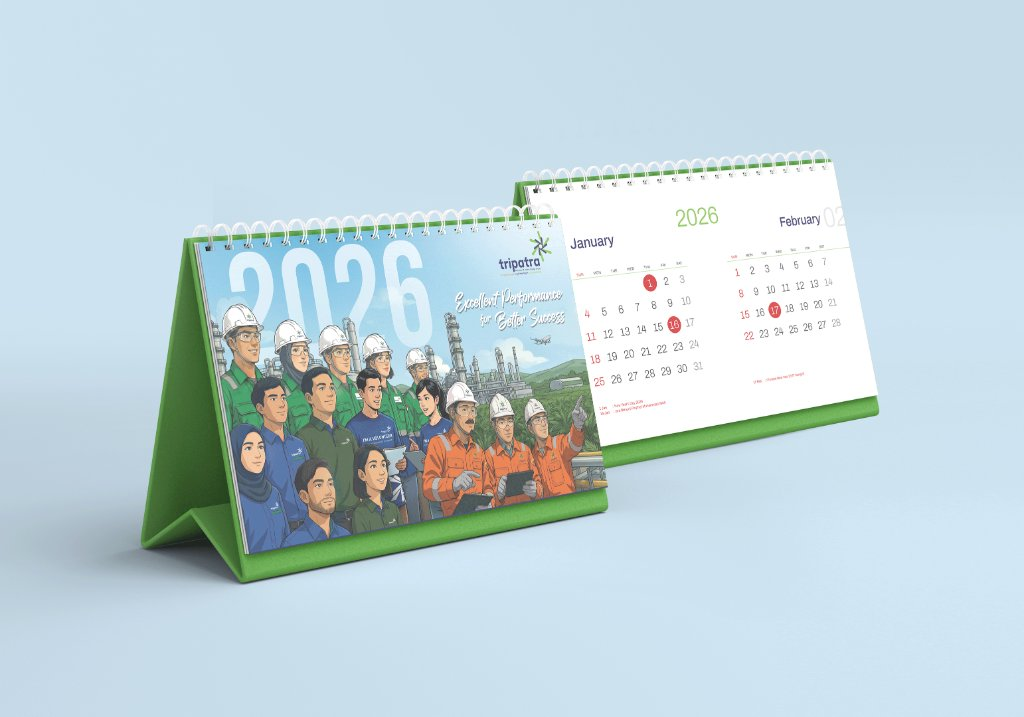
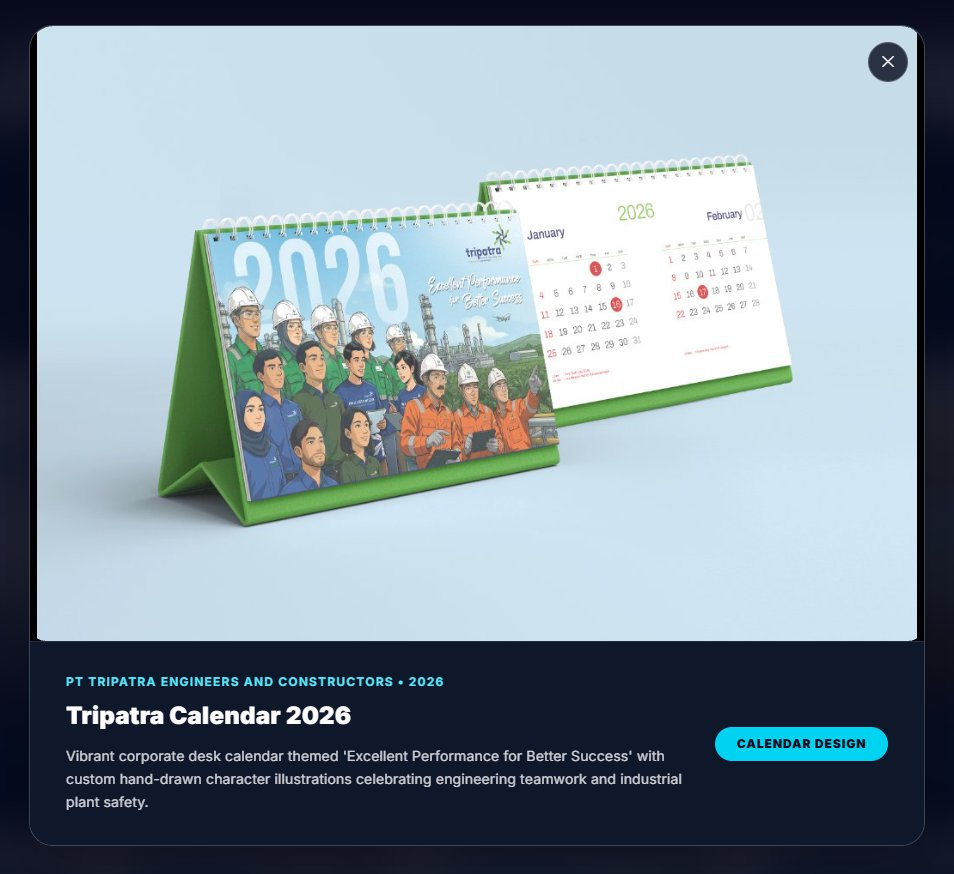
Add multi-slide support with thumbnail strip (up to 10 slots) for project details and add Tripatra Calendar 2026 slides 2-5

diff --git a/app/components/WorkSection.tsx b/app/components/WorkSection.tsx
@@ -11,6 +11,7 @@ type Project = {
   client: string;
   year: string;
   image: string;
+  images?: string[];
   description: string;
 };
 
@@ -58,6 +59,13 @@ const projects: Project[] = [
     client: "PT Tripatra Engineers and Constructors",
     year: "2026",
     image: "/work-tripatra-calendar-2026.jpg",
+    images: [
+      "/work-tripatra-calendar-2026.jpg",
+      "/work-tripatra-calendar-2026-slide-2.jpg",
+      "/work-tripatra-calendar-2026-slide-3.jpg",
+      "/work-tripatra-calendar-2026-slide-4.jpg",
+      "/work-tripatra-calendar-2026-slide-5.jpg",
+    ],
     description: "Vibrant corporate desk calendar themed 'Excellent Performance for Better Success' with custom hand-drawn character illustrations celebrating engineering teamwork and industrial plant safety.",
   },
   {
@@ -647,6 +655,7 @@ export default function WorkSection() {
   const [activeTab, setActiveTab] = useState<string>("All");
   const [selectedYear, setSelectedYear] = useState<string>("All");
   const [selectedProject, setSelectedProject] = useState<Project | null>(null);
+  const [activeImageIndex, setActiveImageIndex] = useState<number>(0);
 
   const workCategories = [
     { id: "All", title: t("work.cat_all"), number: "01" },
@@ -1113,93 +1122,180 @@ export default function WorkSection() {
       {/* ======================================================== */}
       {/* LIGHTBOX MODAL (Click project to view full photo)        */}
       {/* ======================================================== */}
-      {selectedProject && (
-        <div
-          className="fixed inset-0 z-50 flex items-center justify-center p-4 sm:p-8 bg-slate-950/90 backdrop-blur-xl animate-fade-in"
-          onClick={() => setSelectedProject(null)}
-        >
+      {selectedProject && (() => {
+        // Daftar gambar untuk slide (jika ada images[], gunakan itu; fallback ke [image])
+        const projectImages = selectedProject.images && selectedProject.images.length > 0
+          ? selectedProject.images
+          : [selectedProject.image];
+        const currentImg = projectImages[activeImageIndex] || projectImages[0] || selectedProject.image;
+        const totalSlides = projectImages.length;
+
+        const handlePrev = (e: React.MouseEvent) => {
+          e.stopPropagation();
+          setActiveImageIndex((prev) => (prev > 0 ? prev - 1 : totalSlides - 1));
+        };
+
+        const handleNext = (e: React.MouseEvent) => {
+          e.stopPropagation();
+          setActiveImageIndex((prev) => (prev < totalSlides - 1 ? prev + 1 : 0));
+        };
+
+        return (
           <div
-            className="relative max-w-4xl w-full rounded-3xl overflow-hidden bg-slate-900 border border-white/20 shadow-2xl flex flex-col"
-            onClick={(e) => e.stopPropagation()}
+            className="fixed inset-0 z-50 flex items-center justify-center p-3 sm:p-6 bg-slate-950/90 backdrop-blur-xl animate-fade-in"
+            onClick={() => {
+              setSelectedProject(null);
+              setActiveImageIndex(0);
+            }}
           >
-            {/* Close button */}
-            <button
-              onClick={() => setSelectedProject(null)}
-              className="absolute top-4 right-4 z-20 w-10 h-10 rounded-full bg-slate-950/80 hover:bg-white text-white hover:text-slate-950 flex items-center justify-center transition-colors cursor-pointer border border-white/20 select-none"
-              aria-label="Close"
-            >
-              ✕
-            </button>
-
-            {/* High-res Image Preview */}
-            <div className="relative w-full max-h-[65vh] overflow-hidden bg-black flex items-center justify-center p-2">
-              <img
-                src={selectedProject.image}
-                alt={selectedProject.title}
-                className="w-full h-auto max-h-[65vh] object-contain rounded-2xl"
-              />
-            </div>
-
-            {/* Modal Detail Footer */}
             <div
-              className="bg-slate-900 flex flex-col sm:flex-row sm:items-center justify-between gap-6 border-t border-white/10"
-              style={{
-                padding: "2rem 2.25rem",
-              }}
+              className="relative max-w-5xl w-full rounded-3xl overflow-hidden bg-slate-900 border border-white/20 shadow-2xl flex flex-col"
+              onClick={(e) => e.stopPropagation()}
             >
-              <div className="flex-1 pr-4">
-                <span
-                  className="text-xs font-bold uppercase tracking-wider text-cyan-300 block"
-                  style={{
-                    letterSpacing: "0.1em",
-                    marginBottom: "0.6rem",
-                  }}
-                >
-                  {selectedProject.client} • {selectedProject.year}
-                </span>
-                <h4
-                  className="text-xl sm:text-2xl font-black text-white"
-                  style={{
-                    letterSpacing: "0.01em",
-                    lineHeight: "1.35",
-                    marginBottom: "0.75rem",
-                  }}
-                >
-                  {selectedProject.title}
-                </h4>
-                <p
-                  className="text-sm text-white/80 max-w-2xl"
-                  style={{
-                    lineHeight: "1.65",
-                    letterSpacing: "0.01em",
-                  }}
-                >
-                  {selectedProject.description}
-                </p>
+              {/* Close button */}
+              <button
+                onClick={() => {
+                  setSelectedProject(null);
+                  setActiveImageIndex(0);
+                }}
+                className="absolute top-4 right-4 z-30 w-10 h-10 rounded-full bg-slate-950/80 hover:bg-white text-white hover:text-slate-950 flex items-center justify-center transition-colors cursor-pointer border border-white/20 select-none"
+                aria-label="Close"
+              >
+                ✕
+              </button>
+
+              {/* High-res Image Preview & Carousel Controls */}
+              <div className="relative w-full h-[52vh] sm:h-[60vh] max-h-[65vh] overflow-hidden bg-black flex items-center justify-center p-2 group">
+                <img
+                  key={currentImg}
+                  src={currentImg}
+                  alt={`${selectedProject.title} - Slide ${activeImageIndex + 1}`}
+                  className="w-full h-full object-contain rounded-2xl select-none transition-all duration-300"
+                />
+
+                {/* Navigasi Panah Kiri & Kanan (jika lebih dari 1 gambar) */}
+                {totalSlides > 1 && (
+                  <>
+                    <button
+                      onClick={handlePrev}
+                      className="absolute left-4 top-1/2 -translate-y-1/2 z-20 w-11 h-11 rounded-full bg-black/60 hover:bg-[#0080c8] text-white flex items-center justify-center border border-white/30 backdrop-blur transition-all duration-200 cursor-pointer shadow-lg hover:scale-110"
+                      aria-label="Previous Slide"
+                    >
+                      <svg className="w-5 h-5" fill="none" stroke="currentColor" viewBox="0 0 24 24">
+                        <path strokeLinecap="round" strokeLinejoin="round" strokeWidth={2.5} d="M15 19l-7-7 7-7" />
+                      </svg>
+                    </button>
+                    <button
+                      onClick={handleNext}
+                      className="absolute right-4 top-1/2 -translate-y-1/2 z-20 w-11 h-11 rounded-full bg-black/60 hover:bg-[#0080c8] text-white flex items-center justify-center border border-white/30 backdrop-blur transition-all duration-200 cursor-pointer shadow-lg hover:scale-110"
+                      aria-label="Next Slide"
+                    >
+                      <svg className="w-5 h-5" fill="none" stroke="currentColor" viewBox="0 0 24 24">
+                        <path strokeLinecap="round" strokeLinejoin="round" strokeWidth={2.5} d="M9 5l7 7-7 7" />
+                      </svg>
+                    </button>
+
+                    {/* Counter Badge Slide (misal: 1 / 5) */}
+                    <div className="absolute top-4 left-4 z-20 px-3 py-1 rounded-full bg-black/70 border border-white/20 text-xs font-mono font-semibold text-white backdrop-blur">
+                      {activeImageIndex + 1} / {totalSlides}
+                    </div>
+                  </>
+                )}
               </div>
 
-              <div className="shrink-0 self-start sm:self-center">
-                <span
-                  className="inline-flex items-center justify-center rounded-full bg-cyan-400 text-slate-950 text-xs font-black uppercase tracking-wider shadow-md"
-                  style={{
-                    padding: "0.55rem 1.35rem",
-                    letterSpacing: "0.08em",
-                    whiteSpace: "nowrap",
-                  }}
-                >
-                  {selectedProject.category === "Annual Report"
-                    ? t("work.cat_ar")
-                    : selectedProject.category === "Calendar Design"
-                    ? t("work.cat_cal")
-                    : selectedProject.category === "Branding & Print"
-                    ? t("work.cat_brand")
-                    : selectedProject.category}
-                </span>
+              {/* THUMBNAIL STRIP / SLOT SLIDER (Mendukung hingga 10 slot) */}
+              {totalSlides > 1 && (
+                <div className="w-full bg-slate-950/70 border-t border-white/10 px-4 py-2.5 flex items-center justify-center gap-2 overflow-x-auto select-none">
+                  {projectImages.map((imgSrc, idx) => {
+                    const isActive = activeImageIndex === idx;
+                    return (
+                      <button
+                        key={`thumb-${idx}`}
+                        onClick={(e) => {
+                          e.stopPropagation();
+                          setActiveImageIndex(idx);
+                        }}
+                        className={`relative rounded-lg overflow-hidden border-2 transition-all duration-200 shrink-0 w-14 h-10 sm:w-16 sm:h-11 cursor-pointer ${
+                          isActive
+                            ? "border-[#0080c8] scale-105 shadow-[0_0_12px_rgba(0,128,200,0.6)]"
+                            : "border-white/20 opacity-60 hover:opacity-100 hover:border-white/50"
+                        }`}
+                      >
+                        <img
+                          src={imgSrc}
+                          alt={`Thumbnail ${idx + 1}`}
+                          className="w-full h-full object-cover"
+                        />
+                        <span className="absolute bottom-0.5 right-0.5 px-1 rounded bg-black/70 text-[9px] font-mono text-white leading-none">
+                          {idx + 1}
+                        </span>
+                      </button>
+                    );
+                  })}
+                </div>
+              )}
+
+              {/* Modal Detail Footer */}
+              <div
+                className="bg-slate-900 flex flex-col sm:flex-row sm:items-center justify-between gap-6 border-t border-white/10"
+                style={{
+                  padding: "1.75rem 2.25rem",
+                }}
+              >
+                <div className="flex-1 pr-4">
+                  <span
+                    className="text-xs font-bold uppercase tracking-wider text-cyan-300 block"
+                    style={{
+                      letterSpacing: "0.1em",
+                      marginBottom: "0.4rem",
+                    }}
+                  >
+                    {selectedProject.client} • {selectedProject.year}
+                  </span>
+                  <h4
+                    className="text-xl sm:text-2xl font-black text-white"
+                    style={{
+                      letterSpacing: "0.01em",
+                      lineHeight: "1.35",
+                      marginBottom: "0.5rem",
+                    }}
+                  >
+                    {selectedProject.title}
+                  </h4>
+                  <p
+                    className="text-sm text-white/80 max-w-2xl"
+                    style={{
+                      lineHeight: "1.65",
+                      letterSpacing: "0.01em",
+                    }}
+                  >
+                    {selectedProject.description}
+                  </p>
+                </div>
+
+                <div className="shrink-0 self-start sm:self-center">
+                  <span
+                    className="inline-flex items-center justify-center rounded-full bg-cyan-400 text-slate-950 text-xs font-black uppercase tracking-wider shadow-md"
+                    style={{
+                      padding: "0.55rem 1.35rem",
+                      letterSpacing: "0.08em",
+                      whiteSpace: "nowrap",
+                    }}
+                  >
+                    {selectedProject.category === "Annual Report"
+                      ? t("work.cat_ar")
+                      : selectedProject.category === "Calendar Design"
+                      ? t("work.cat_cal")
+                      : selectedProject.category === "Branding & Print"
+                      ? t("work.cat_brand")
+                      : selectedProject.category}
+                  </span>
+                </div>
               </div>
             </div>
           </div>
-        </div>
-      )}
+        );
+      })()}
 
       <style jsx>{`
         @keyframes fadeIn {
